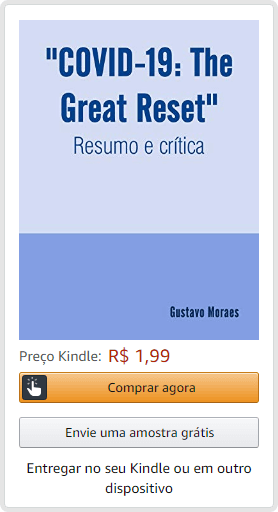
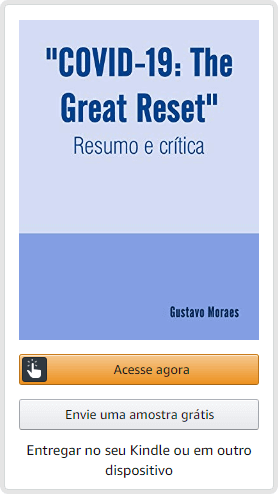
Adiciona texto na página e muda badge da Amazon Kindle

diff --git a/index.md b/index.md
@@ -10,7 +10,9 @@
 
 Você saberá porque conhecer _"O Grande Reinício"_, do Fórum Econômico Mundial, é mais importante do que você imagina.
 
-Download **grátis** do e-book:
+## E-book
+
+O e-book "'COVID-19: The Great Reset' - Resumo e crítica" está disponível para download **grátis** nos seguintes formatos:
 
 [![PDF](https://img.shields.io/badge/%20Baixar%20-PDF-EC1C24.svg?style=for-the-badge&logo=adobe-acrobat-reader&colorA=263238&logoColor=EC1C24)](https://rawcdn.githack.com/GreatReset/GreatReset.github.io/57fdf00d38f7205f07f0aa6fbfd3e14f105f10fa/_COVID-19_ The Great Reset_ - R - Gustavo Moraes.pdf)
 [![MOBI](https://img.shields.io/badge/%20Baixar%20-MOBI-FF9900.svg?style=for-the-badge&logo=amazon&colorA=263238&logoColor=FF9900)](https://rawcdn.githack.com/GreatReset/GreatReset.github.io/57fdf00d38f7205f07f0aa6fbfd3e14f105f10fa/_COVID-19_ The Great Reset_ - R - Gustavo Moraes.mobi)
@@ -21,6 +23,14 @@ Download **grátis** do e-book:
 * <small>MOBI (para leitores de e-book Kindle)</small>
 * <small>EPUB (para demais leitores de e-book e iPad)</small>
 * <small>HTML (para ler online no computador ou no celular)</small>
+
+O e-book também está disponível na **Amazon Kindle**. Apoie o trabalho do autor adquirindo o e-book na loja:
+
+<img style="text-align: center;" alt="Amazon Kindle badge" src="e-book_badge.png">
+
+## Audiobook
+
+
 
 <script>
     window.onload = function(){
